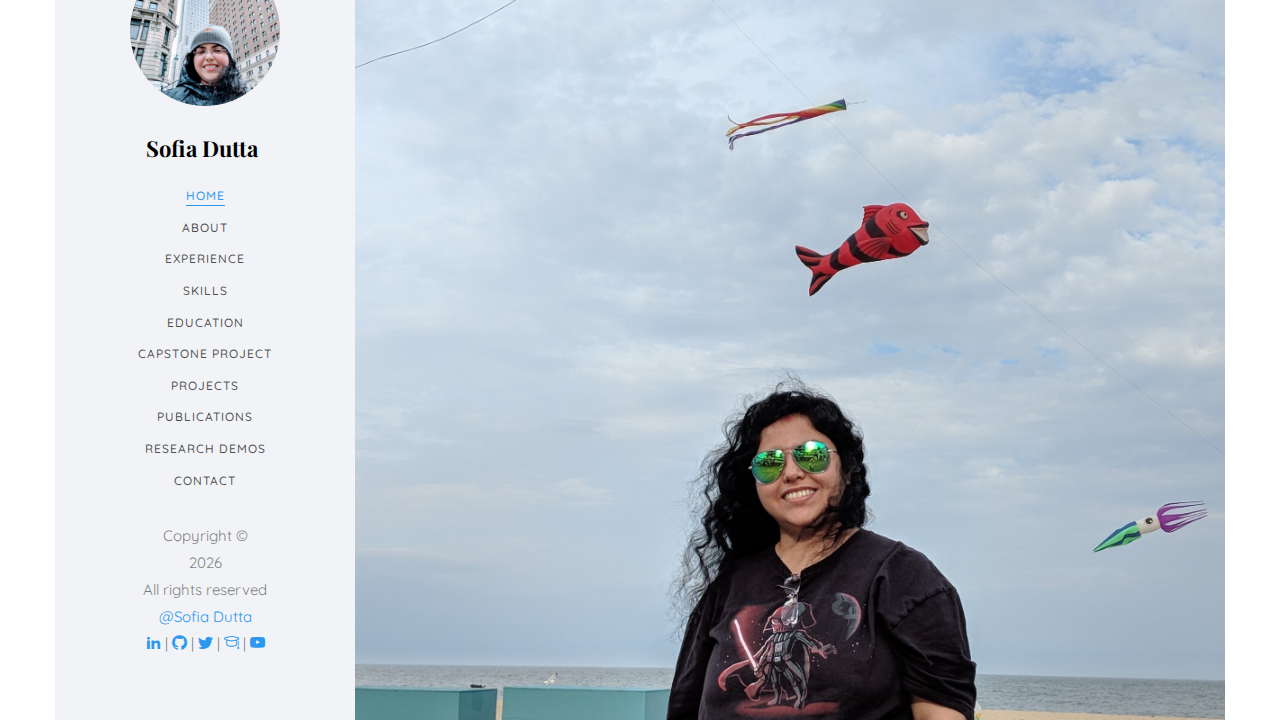
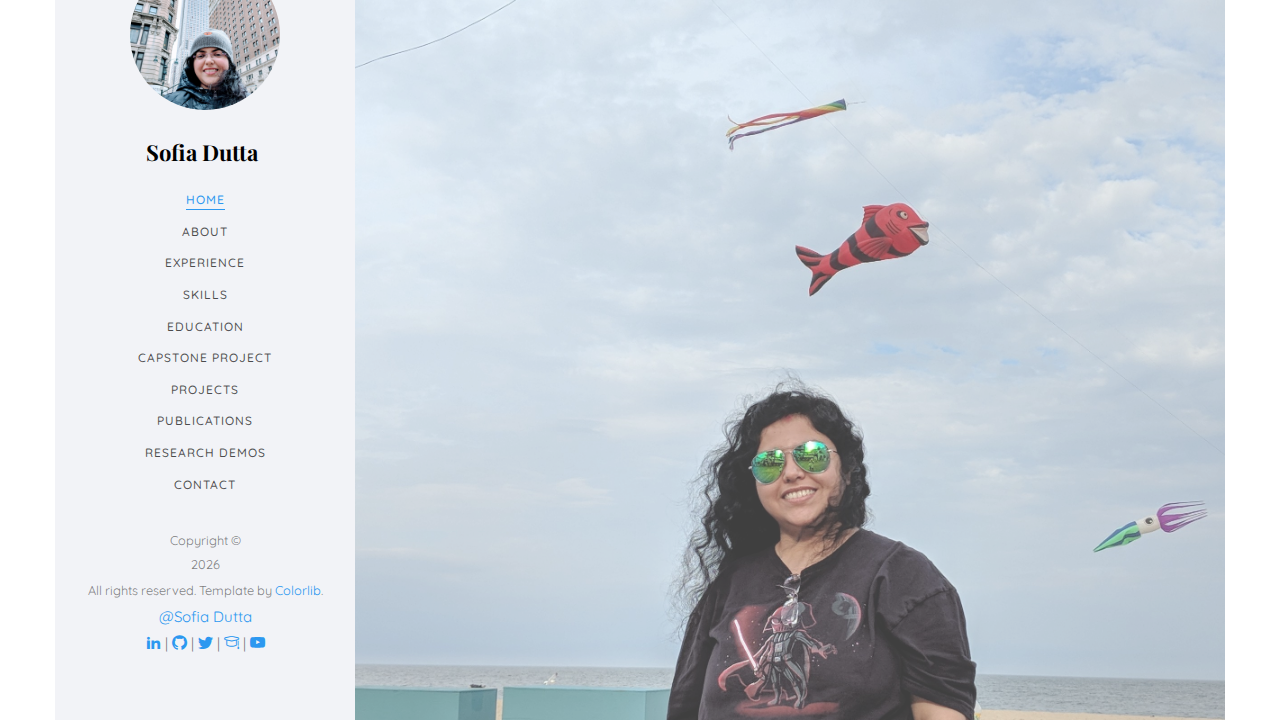
Add copy button for obfuscated email
Added a native "Copy" button next to the obfuscated email address in the contact section that automatically decodes the address before copying. This improves the UX by doing the decoding automatically while maintaining bot protection. Added ARIA labels to the icon-only button for screen readers and updated them upon successful copy to indicate feedback.

diff --git a/index.html b/index.html
@@ -87,7 +87,7 @@
 			</nav>
 
 			<div class="colorlib-footer">
-				<p><small>&copy; Copyright <span id="copyright-year"></span> All rights reserved. Template by <a href="https://colorlib.com" target="_blank" rel="noopener noreferrer">Colorlib</a>.</small><br>
+				<p><small>Copyright &copy; <span id="copyright-year"></span> All rights reserved. Template by <a href="https://colorlib.com" target="_blank" rel="noopener noreferrer">Colorlib</a>.</small><br>
 					<a href="https://www.linkedin.com/in/sofiadutta" target="_blank" rel="noopener noreferrer">@Sofia Dutta</a><br>
 					<a href="https://www.linkedin.com/in/sofiadutta" target="_blank" rel="noopener noreferrer" aria-label="LinkedIn Profile" title="LinkedIn Profile"><i class="icon-linkedin22" aria-hidden="true"></i></a> |
 					<a href="https://github.com/sofiadutta" target="_blank" rel="noopener noreferrer" aria-label="GitHub Profile" title="GitHub Profile"><i class="icon-github" aria-hidden="true"></i></a> |
@@ -861,7 +861,13 @@
 									<i class="icon-mail6"></i>
 								</div>
 								<div class="colorlib-text">
-									<p>sofia DOT dutta 17 AT gmail DOT com</p>
+									<p>
+										<span class="obfuscated-email">sofia DOT dutta 17 AT gmail DOT com</span>
+										&nbsp;
+										<button id="copy-email-btn" class="btn btn-primary" aria-label="Copy email address" title="Copy email address">
+											<i class="icon-clipboard" aria-hidden="true"></i>
+										</button>
+									</p>
 								</div>
 							</div>
 						</div>

diff --git a/js/main.js b/js/main.js
@@ -320,6 +320,39 @@
 		}
 	};
 
+	var initCopyEmail = function() {
+		var copyBtn = document.getElementById('copy-email-btn');
+		if (copyBtn) {
+			copyBtn.addEventListener('click', function() {
+				var emailSpan = document.querySelector('.obfuscated-email');
+				if (emailSpan) {
+					var obfuscatedText = emailSpan.textContent;
+					var cleanEmail = obfuscatedText.replace(/ DOT /g, '.').replace(/ AT /g, '@').replace(/\s+/g, '');
+
+					navigator.clipboard.writeText(cleanEmail).then(function() {
+						var originalHtml = copyBtn.innerHTML;
+						var originalAria = copyBtn.getAttribute('aria-label');
+						var originalTitle = copyBtn.getAttribute('title');
+
+						copyBtn.disabled = true;
+						copyBtn.innerHTML = '<i class="icon-check" aria-hidden="true"></i>';
+						copyBtn.setAttribute('aria-label', 'Email copied');
+						copyBtn.setAttribute('title', 'Email copied');
+
+						setTimeout(function() {
+							copyBtn.innerHTML = originalHtml;
+							copyBtn.setAttribute('aria-label', originalAria);
+							copyBtn.setAttribute('title', originalTitle);
+							copyBtn.disabled = false;
+						}, 2000);
+					}).catch(function(err) {
+						console.error('Failed to copy email: ', err);
+					});
+				}
+			});
+		}
+	};
+
 	// Document on load.
 	$(function(){
 		fullHeight();
@@ -339,6 +372,7 @@
 		stickyFunction();
 		lazyLoadBackgrounds();
 		updateCopyrightYear();
+		initCopyEmail();
 	});
 
 

diff --git a/.Jules/palette.md b/.Jules/palette.md
@@ -13,3 +13,7 @@
 ## 2024-05-23 - [Tooltips for Icon-Only Buttons]
 **Learning:** Icon-only buttons (like social links) are ambiguous for mouse users. While `aria-label` helps screen readers, sighted users benefit significantly from a native browser tooltip via the `title` attribute.
 **Action:** Always add `title` attributes matching the `aria-label` for icon-only interactive elements.
+
+## 2024-05-26 - [Copying Obfuscated Text]
+**Learning:** Providing a native "Copy" interaction for bot-obfuscated text (like "DOT" and "AT") significantly improves usability, but requires client-side decoding before writing to the clipboard.
+**Action:** Always wrap obfuscated text in a targetable span, and use JavaScript string replacement to decode it silently during the copy event, ensuring users get the clean text without sacrificing bot protection.
